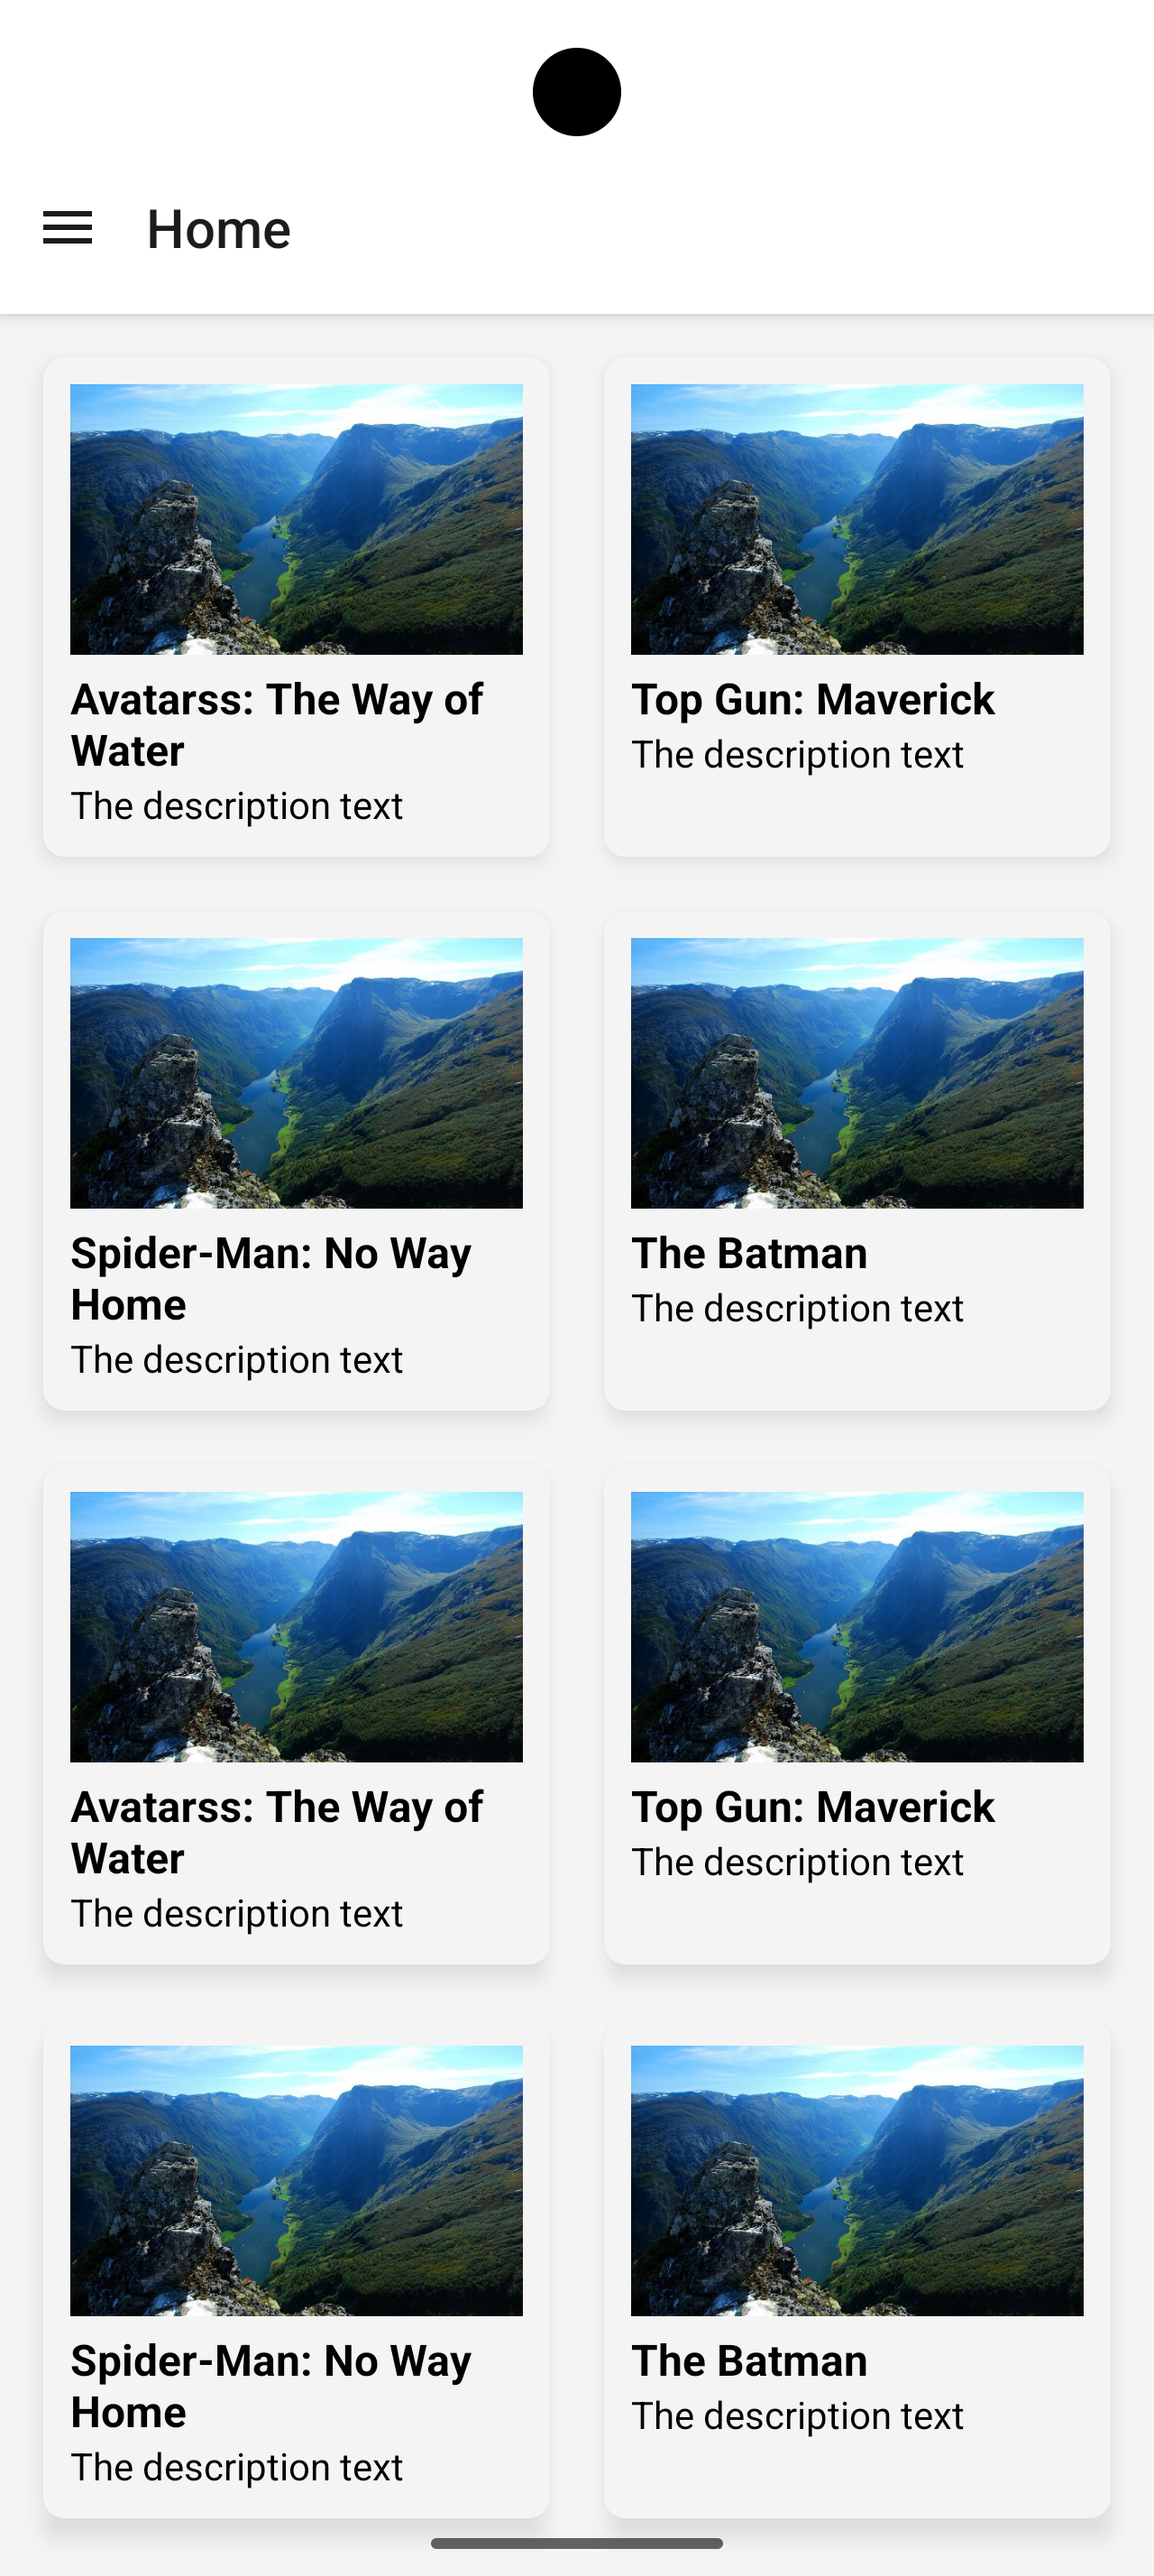
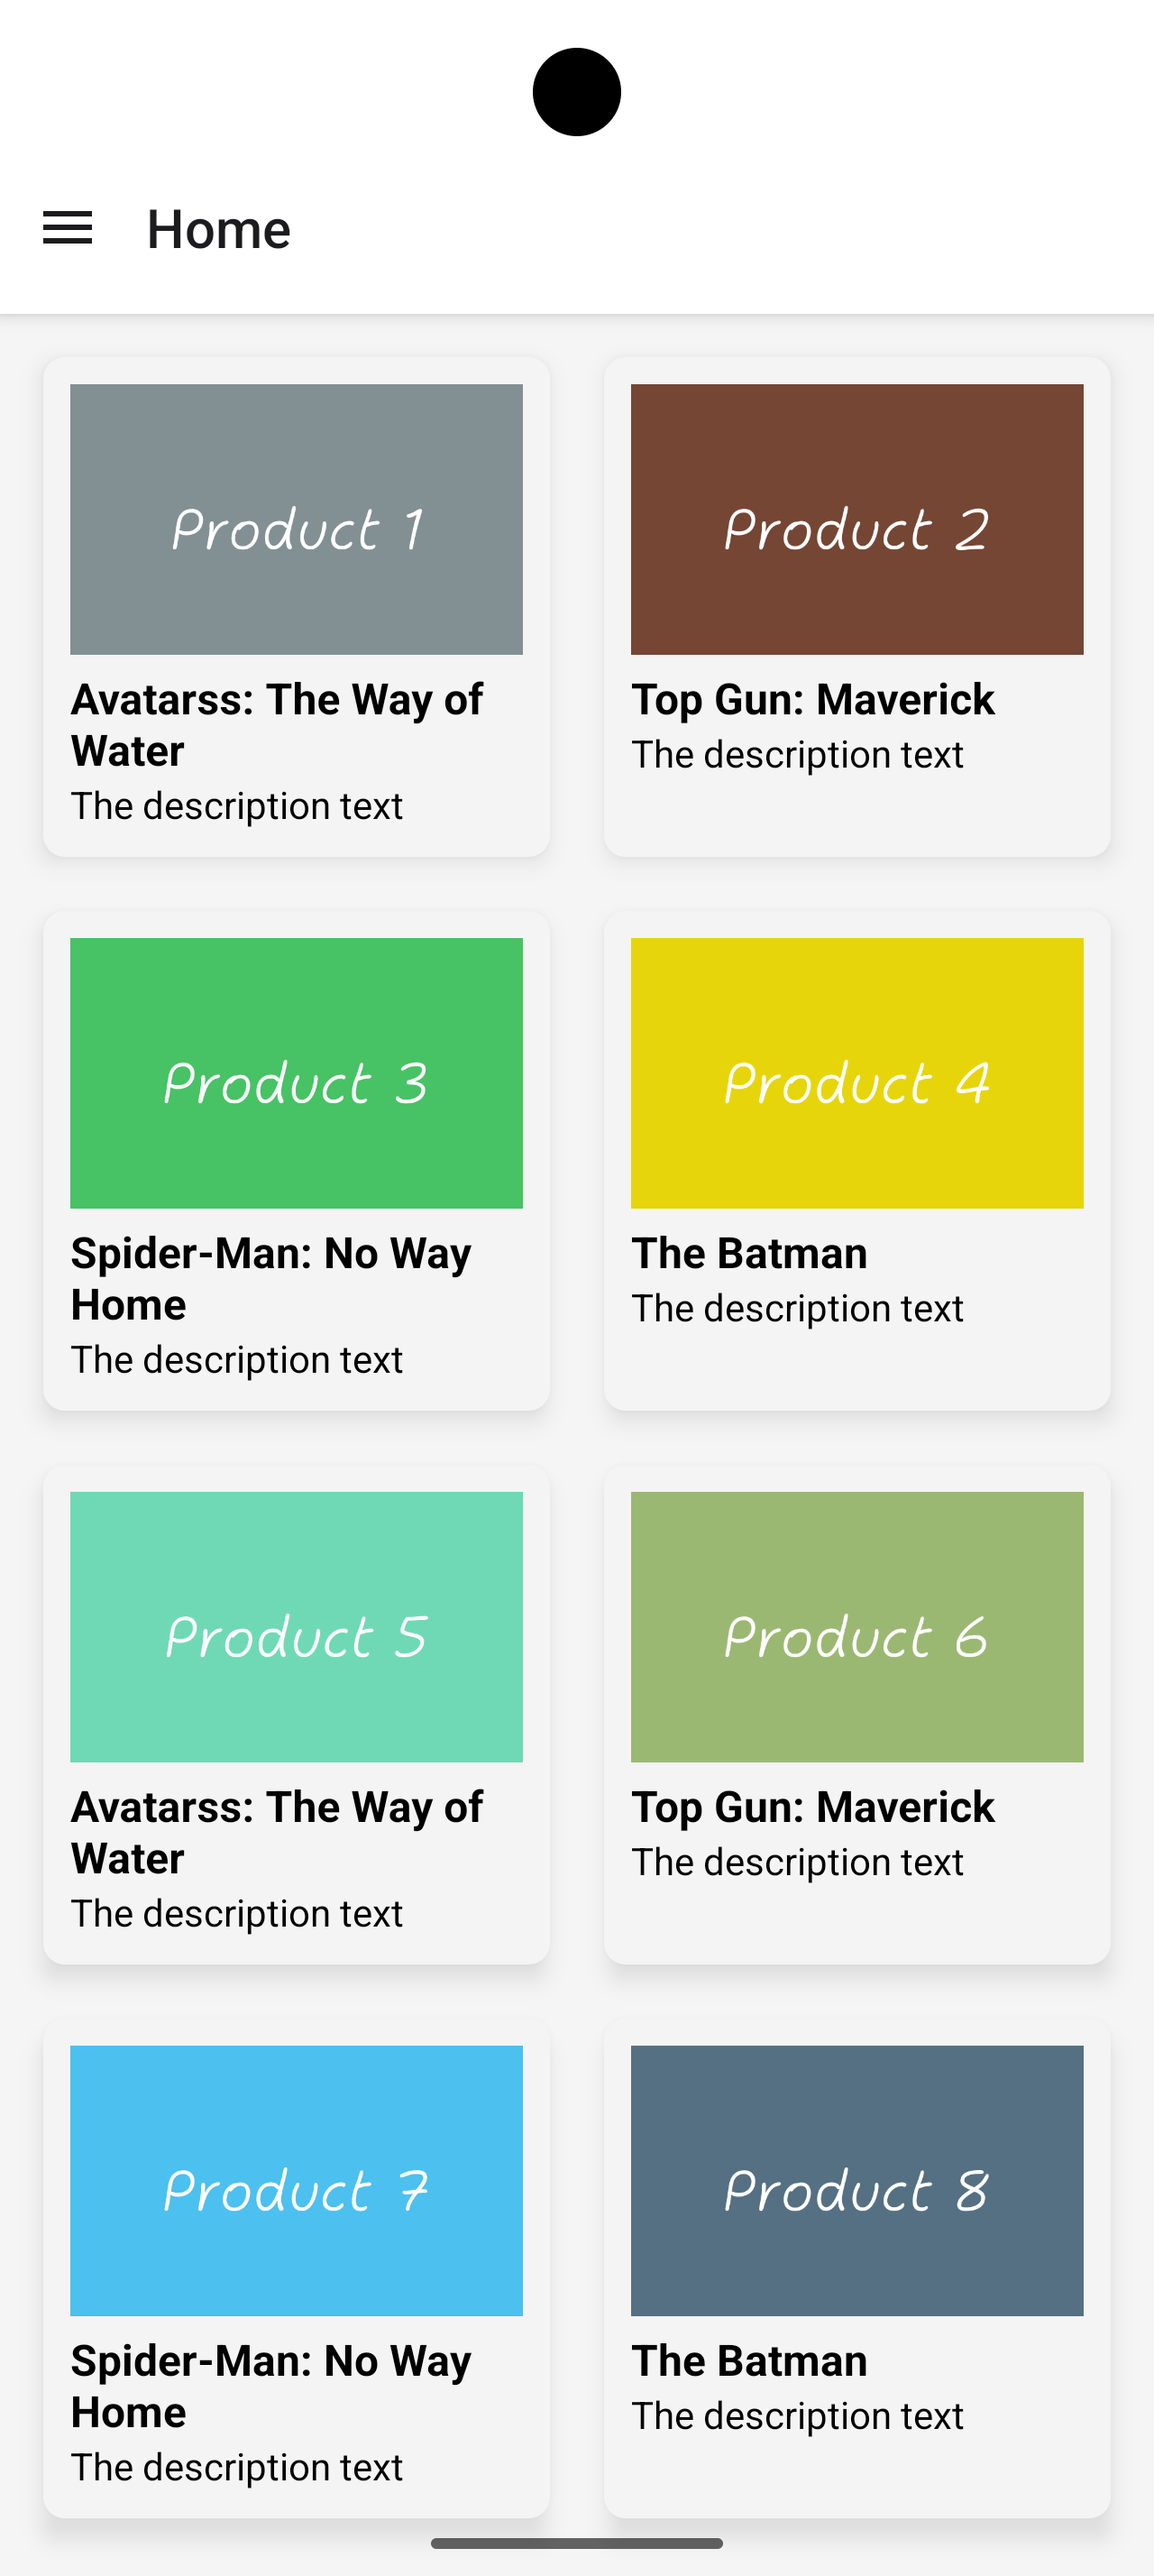
code optimized and new features added

diff --git a/src/features/drawer/home.tsx b/src/features/drawer/home.tsx
@@ -7,16 +7,16 @@ export const HomeScreen = () => {
     const { t } = useTranslation();
     const [refresh, setRefresh] = useState(false)
     let moviesData = [
-        { id: '1', url: 'https://www.gstatic.com/webp/gallery/1.jpg', title: t('avatarss'), description: t('description_text') },
-        { id: '2', url: 'https://www.gstatic.com/webp/gallery/1.jpg', title: t('maverick'), description: t('description_text') },
-        { id: '3', url: 'https://www.gstatic.com/webp/gallery/1.jpg', title: t('spider_man'), description: t('description_text') },
-        { id: '4', url: 'https://www.gstatic.com/webp/gallery/1.jpg', title: t('batman'), description: t('description_text') },
-        { id: '5', url: 'https://www.gstatic.com/webp/gallery/1.jpg', title: t('avatarss'), description: t('description_text') },
-        { id: '6', url: 'https://www.gstatic.com/webp/gallery/1.jpg', title: t('maverick'), description: t('description_text') },
-        { id: '7', url: 'https://www.gstatic.com/webp/gallery/1.jpg', title: t('spider_man'), description: t('description_text') },
-        { id: '8', url: 'https://www.gstatic.com/webp/gallery/1.jpg', title: t('batman'), description: t('description_text') },
-        { id: '9', url: 'https://www.gstatic.com/webp/gallery/1.jpg', title: t('avatarss'), description: t('description_text') },
-        { id: '10', url: 'https://www.gstatic.com/webp/gallery/1.jpg', title: t('maverick'), description: t('description_text') },
+        { id: '1', url: 'https://api.slingacademy.com/public/sample-products/1.png', title: t('avatarss'), description: t('description_text') },
+        { id: '2', url: 'https://api.slingacademy.com/public/sample-products/2.png', title: t('maverick'), description: t('description_text') },
+        { id: '3', url: 'https://api.slingacademy.com/public/sample-products/3.png', title: t('spider_man'), description: t('description_text') },
+        { id: '4', url: 'https://api.slingacademy.com/public/sample-products/4.png', title: t('batman'), description: t('description_text') },
+        { id: '5', url: 'https://api.slingacademy.com/public/sample-products/5.png', title: t('avatarss'), description: t('description_text') },
+        { id: '6', url: 'https://api.slingacademy.com/public/sample-products/6.png', title: t('maverick'), description: t('description_text') },
+        { id: '7', url: 'https://api.slingacademy.com/public/sample-products/7.png', title: t('spider_man'), description: t('description_text') },
+        { id: '8', url: 'https://api.slingacademy.com/public/sample-products/8.png', title: t('batman'), description: t('description_text') },
+        { id: '9', url: 'https://api.slingacademy.com/public/sample-products/9.png', title: t('avatarss'), description: t('description_text') },
+        { id: '10', url: 'https://api.slingacademy.com/public/sample-products/10.png', title: t('maverick'), description: t('description_text') },
     ];
     const [movies, setMovies] = useState(moviesData)
 
@@ -39,16 +39,16 @@ export const HomeScreen = () => {
 
         setRefresh(true)
         let newMovies = [
-            { id: '11', url: 'https://www.gstatic.com/webp/gallery/1.jpg', title: t('spider_man'), description: t('description_text') },
-            { id: '12', url: 'https://www.gstatic.com/webp/gallery/1.jpg', title: t('batman'), description: t('description_text') },
-            { id: '13', url: 'https://www.gstatic.com/webp/gallery/1.jpg', title: t('avatarss'), description: t('description_text') },
-            { id: '14', url: 'https://www.gstatic.com/webp/gallery/1.jpg', title: t('maverick'), description: t('description_text') },
-            { id: '15', url: 'https://www.gstatic.com/webp/gallery/1.jpg', title: t('spider_man'), description: t('description_text') },
-            { id: '16', url: 'https://www.gstatic.com/webp/gallery/1.jpg', title: t('batman'), description: t('description_text') },
-            { id: '17', url: 'https://www.gstatic.com/webp/gallery/1.jpg', title: t('avatarss'), description: t('description_text') },
-            { id: '18', url: 'https://www.gstatic.com/webp/gallery/1.jpg', title: t('maverick'), description: t('description_text') },
-            { id: '19', url: 'https://www.gstatic.com/webp/gallery/1.jpg', title: t('spider_man'), description: t('description_text') },
-            { id: '20', url: 'https://www.gstatic.com/webp/gallery/1.jpg', title: t('batman'), description: t('description_text') },
+            { id: '11', url: 'https://api.slingacademy.com/public/sample-products/11.png', title: t('spider_man'), description: t('description_text') },
+            { id: '12', url: 'https://api.slingacademy.com/public/sample-products/12.png', title: t('batman'), description: t('description_text') },
+            { id: '13', url: 'https://api.slingacademy.com/public/sample-products/13.png', title: t('avatarss'), description: t('description_text') },
+            { id: '14', url: 'https://api.slingacademy.com/public/sample-products/14.png', title: t('maverick'), description: t('description_text') },
+            { id: '15', url: 'https://api.slingacademy.com/public/sample-products/15.png', title: t('spider_man'), description: t('description_text') },
+            { id: '16', url: 'https://api.slingacademy.com/public/sample-products/16.png', title: t('batman'), description: t('description_text') },
+            { id: '17', url: 'https://api.slingacademy.com/public/sample-products/17.png', title: t('avatarss'), description: t('description_text') },
+            { id: '18', url: 'https://api.slingacademy.com/public/sample-products/18.png', title: t('maverick'), description: t('description_text') },
+            { id: '19', url: 'https://api.slingacademy.com/public/sample-products/19.png', title: t('spider_man'), description: t('description_text') },
+            { id: '20', url: 'https://api.slingacademy.com/public/sample-products/20.png', title: t('batman'), description: t('description_text') },
         ];
         setTimeout(() => {
             setMovies([...movies, ...newMovies])
